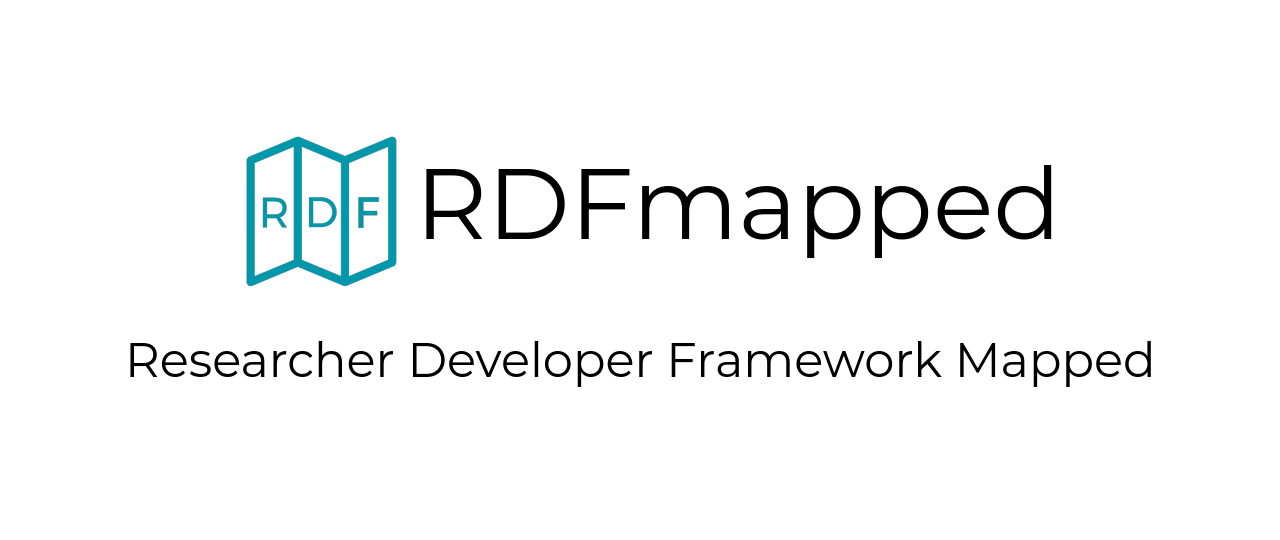
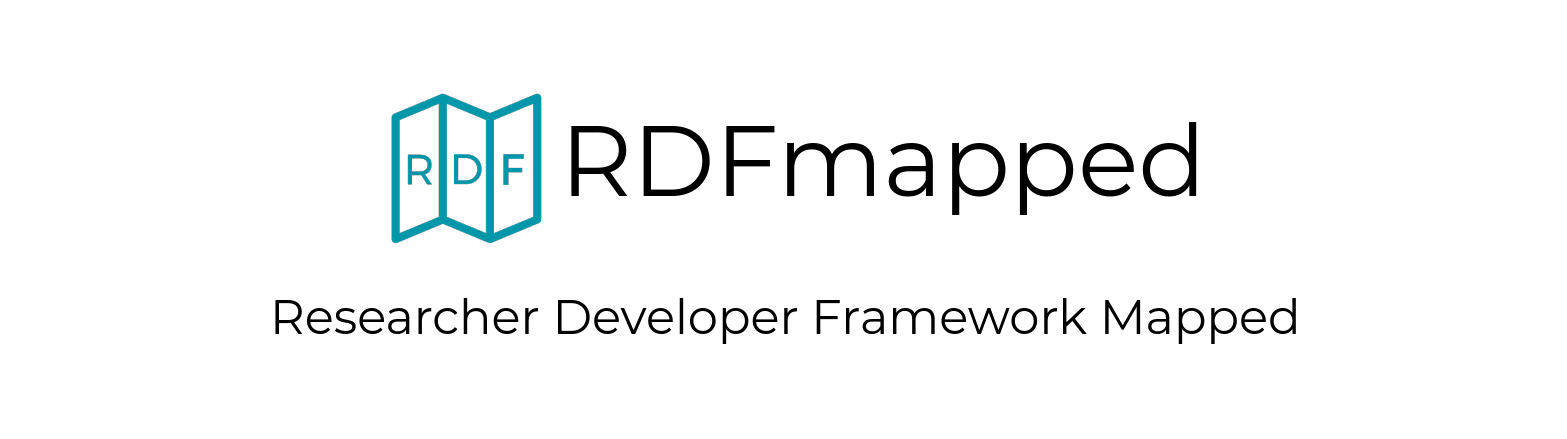
Update promo image sizing
Update promo image sizing

Changed region(s): [[0.1875, 0.2073, 0.8438, 0.5626], [0.0938, 0.6219, 0.9062, 0.7699]]

diff --git a/README.md b/README.md
@@ -1,5 +1,4 @@
-[![RDfmapped](./server/assets/img/promo/rdfmapped_social_smaller.png)](https://rdfmapped.com)
-
+[![RDfmapped](./server/assets/img/promo/rdfmapped_social_narrower.png)](https://rdfmapped.com)
 [![Backend Tests](https://github.com/almasen/rdf-mapped/workflows/Backend%20Tests/badge.svg)](https://github.com/almasen/rdf-mapped/actions)
 [![Test Coverage](https://img.shields.io/badge/dynamic/json?color=success&label=test%20coverage&query=%24.total.statements.pct&suffix=%25&url=https%3A%2F%2Fdev.rdfmapped.com%2Fcoverage%2Fcoverage-summary.json&logo=jest)](https://dev.rdfmapped.com/coverage)
 [![Codacy Badge](https://app.codacy.com/project/badge/Grade/8f122bbf86794463b3b10f85bcf28249)](https://www.codacy.com?utm_source=github.com&amp;utm_medium=referral&amp;utm_content=almasen/rdf-mapped&amp;utm_campaign=Badge_Grade)
